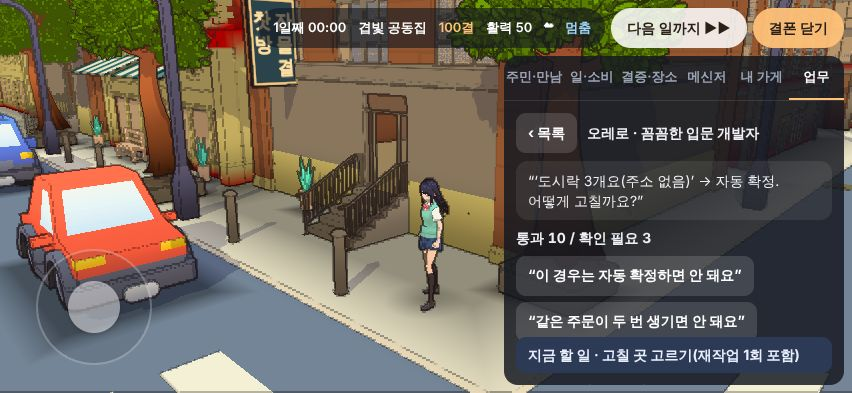
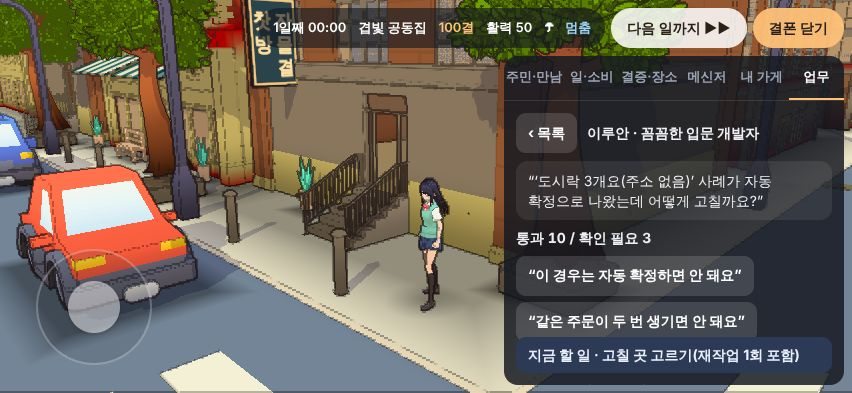
C104 C103 교차 리뷰 반영: 재합의·가용 시간·버전별 동의·되돌리기·중간 질문·한 문장
- awaitingFunding 계약은 취소(개발자 예약 해제) 또는 성공보수로 전환 가능(renegotiate)
- 개발은 예약 시각이면서 그 주민의 실제 가용 분(일정상 집·공원, 내 가게 근무 아님)에만;
  개발자 후보는 예약 시각이 일주일 내내 가용인 주민 중에서 고른다
- 데이터 동의를 계약 버전으로 저장(consent), 개발자·범위 변경 시 무효화, 서명 때 양측 그 버전
- 서명 전 '이전 선택으로'(범위 → 개발자), 범위 후보는 하나씩 비교(버튼 3개 이하)
- 50% 중간 질문은 시험물이 나온 뒤에도 답할 수 있다
- 대사는 한 문장으로; 각 항목 테스트 추가

Claude-Session: https://claude.ai/code/session_01BBKTde2wh3oFb8nsA6pmJK

Changed region(s): [[0.6103, 0.4275, 0.9155, 0.5496], [0.6714, 0.3053, 0.7629, 0.3664]]

diff --git a/src/game/tycoon/aiContracts.ts b/src/game/tycoon/aiContracts.ts
@@ -7,7 +7,7 @@ import type { Leg } from '../../sim/tycoonCore';
 import type { OpportunityState } from './opportunity';
 import type { TycoonCtx, TycoonSystem } from './system';
 
-export type AiStage = 'scoping' | 'awaitingFunding' | 'building' | 'testing' | 'reworking' | 'awaitingPayment' | 'delivered' | 'failed';
+export type AiStage = 'scoping' | 'awaitingFunding' | 'building' | 'testing' | 'reworking' | 'awaitingPayment' | 'delivered' | 'failed' | 'cancelled';
 /** 납품 뒤 하루 실제 주문 묶음의 처리 기록(자동 건수·사람 확인 분). */
 export interface AiRun { day: number; auto: number; check: number; minutes: number }
 /** reuse: '다른 고객 재사용' 제안에 대한 고객 답(null 제안 없음). asked: 50% 중간 확인 0 전·1 질문 중·2 답함. */
@@ -16,10 +16,12 @@ export interface AiContract {
   signed: boolean; stage: AiStage; version: number; reuse: boolean | null; work: number; left: number; asked: 0 | 1 | 2; defects: string[];
   /** C104. fixes: 재작업 지정 기능군. owed: 남은 환급 채무. next: 운영 기록에서 나온 다음 일감 범위. */
   reworked: boolean; fixes: string[]; owed: number; cause: string | null; runs: AiRun[]; next: ScopeId | null;
+  /** 데이터 조항에 동의한 계약 버전(고객·개발자). 개발자·범위가 바뀌면 무효. */
+  consent: { client: number | null; dev: number | null };
 }
 /** devs: 개발자 후보 → 주민 ID(그 사람의 지갑으로 지급). */
 export interface AiState { devs: Record<DevId, string>; contracts: AiContract[] }
-const stages: AiStage[] = ['scoping', 'awaitingFunding', 'building', 'testing', 'reworking', 'awaitingPayment', 'delivered', 'failed'];
+const stages: AiStage[] = ['scoping', 'awaitingFunding', 'building', 'testing', 'reworking', 'awaitingPayment', 'delivered', 'failed', 'cancelled'];
 
 const get = (s: AiState, id: string) => { const c = s.contracts.find(c => c.id === id); if (!c) throw Error('Contract unavailable'); return c; };
 const unsigned = (s: AiState, id: string) => { const c = get(s, id); if (c.signed) throw Error('Contract signed'); return c; };
@@ -48,30 +50,54 @@ export function start(ctx: TycoonCtx, s: AiState, oppId: string) {
 }
 const open = (ctx: TycoonCtx, s: AiState, oppId: string, clientId: string) => {
   const c: AiContract = { id: ctx.nextId('aiContract'), oppId, clientId, dev: null, scope: null, pay: null, signed: false, stage: 'scoping',
-    version: 1, reuse: null, work: 0, left: 0, asked: 0, defects: [], reworked: false, fixes: [], owed: 0, cause: null, runs: [], next: null };
+    version: 1, reuse: null, work: 0, left: 0, asked: 0, defects: [], reworked: false, fixes: [], owed: 0, cause: null, runs: [], next: null,
+    consent: { client: null, dev: null } };
   s.contracts.push(c); return c;
+};
+/** 개발자·범위가 바뀌면 새 버전: 이전 데이터 동의(재사용 답 포함)는 무효. 같은 답은 같은 굴림이라 다시 물어도 같다. */
+const amend = (c: AiContract, change: Partial<AiContract>) => {
+  if (Object.entries(change).some(([k, v]) => c[k as keyof AiContract] !== v && c[k as keyof AiContract] !== null))
+    Object.assign(c, { version: c.version + 1, reuse: null, consent: { client: null, dev: null } });
+  Object.assign(c, change); return c;
 };
 export function pickDev(_ctx: TycoonCtx, s: AiState, id: string, dev: DevId) {
   const c = unsigned(s, id);
   if (busy(s, dev, id)) throw Error('Developer busy');
-  if (c.scope && !developers[dev].work[c.scope]) c.scope = null;
-  c.dev = dev; return c;
+  return amend(c, c.scope && !developers[dev].work[c.scope] ? { dev, scope: null } : { dev });
 }
 export function pickScope(_ctx: TycoonCtx, s: AiState, id: string, scope: ScopeId) {
   const c = unsigned(s, id);
   if (!c.dev || !developers[c.dev].work[scope]) throw Error(c.dev ? developers[c.dev].refuse : 'No developer');
-  c.scope = scope; return c;
+  return amend(c, { scope });
+}
+/** 서명 전 '이전 선택으로': 범위, 그다음 개발자를 되돌린다. */
+export function back(_ctx: TycoonCtx, s: AiState, id: string) {
+  const c = unsigned(s, id);
+  return amend(c, c.scope ? { scope: null } : { dev: null });
 }
 /** 개발자의 '다른 고객 재사용' 제안을 고객에게 묻는다. 답은 계약·버전에 묶인 굴림(재질문 재굴림 없음). 조항이 바뀌면 버전이 오른다. */
 export function askReuse(ctx: TycoonCtx, s: AiState, id: string) {
   const c = unsigned(s, id);
-  if (c.reuse === null) { c.reuse = ctx.roll('aiContract', `${c.id}:reuse`, 0) < 0.5; c.version++; }
+  if (c.reuse === null) {
+    c.reuse = ctx.roll('aiContract', `${c.id}:reuse`, 0) < 0.5; c.version++;
+    c.consent = { client: c.reuse ? c.version : null, dev: c.version }; // 재사용 조항은 고객 동의가 있는 버전에만
+  }
   return c.reuse;
 }
+/** 서명 = 양측이 지금 버전의 조항(데이터 포함)에 동의. 재사용 조항은 고객이 이 버전에 동의했어야 한다. */
 export function sign(_ctx: TycoonCtx, s: AiState, id: string, pay: 'advance' | 'successOnly') {
   const c = unsigned(s, id);
-  if (!c.dev || !c.scope || busy(s, c.dev, id) || (pay === 'successOnly' && !canSuccessOnly(c))) throw Error('Cannot sign');
-  Object.assign(c, { pay, signed: true }); return c;
+  if (!c.dev || !c.scope || busy(s, c.dev, id) || (pay === 'successOnly' && !canSuccessOnly(c)) ||
+    (c.reuse && c.consent.client !== c.version)) throw Error('Cannot sign');
+  Object.assign(c, { pay, signed: true, consent: { client: c.version, dev: c.version } }); return c;
+}
+/** 미착수 재합의: 취소(개발자 예약 해제) 또는 성공보수로 바꿔 다시 착수 대기. 돈은 오가지 않았다. */
+export function renegotiate(_ctx: TycoonCtx, s: AiState, id: string, to: 'cancel' | 'successOnly') {
+  const c = get(s, id);
+  if (!c.signed || (c.stage !== 'scoping' && c.stage !== 'awaitingFunding') || (to === 'successOnly' && !canSuccessOnly(c))) throw Error('Cannot renegotiate');
+  if (to === 'cancel') c.stage = 'cancelled'; else Object.assign(c, { pay: 'successOnly', stage: 'scoping', version: c.version + 1,
+    consent: { client: c.version + 1, dev: c.version + 1 } });
+  return c;
 }
 /** 착수: 선금·착수비 settle 묶음(하나라도 안 되면 둘 다 없음 → awaitingFunding). 결함은 기능군마다 여기서 한 번 정한다. */
 export function begin(ctx: TycoonCtx, s: AiState, id: string) {
@@ -86,7 +112,7 @@ export function begin(ctx: TycoonCtx, s: AiState, id: string) {
 export function confirmMid(_ctx: TycoonCtx, s: AiState, id: string) { const c = get(s, id); if (c.asked === 1) c.asked = 2; return c; }
 
 /** 검수 결과: 결과물(범위·남은 결함·동의)이 같으면 같다. */
-export const results = (c: AiContract) => acceptance(c.scope!, c.defects, c.reuse === true);
+export const results = (c: AiContract) => acceptance(c.scope!, c.defects, c.reuse === true && c.consent.client !== null);
 export const refund = (s: AiState, c: AiContract) => c.pay === 'advance' ? legs(s, c, 'start')[0].amount - legs(s, c, 'start')[1].amount : 0;
 /** 잔금 묶음(고객→나, 나→개발자). 같은 묶음 ID라 반복·압축 뒤 재호출에도 한 번만 지급된다. 실패는 검수 결과를 바꾸지 않는다. */
 function collect(ctx: TycoonCtx, s: AiState, c: AiContract) {
@@ -133,11 +159,26 @@ function operate(ctx: TycoonCtx, c: AiContract, day: number) {
   if (up && !c.next && batch.filter(x => preview(c.scope!, [x]).check && !preview(up, [x]).check).length >= 2) c.next = up;
 }
 
+const homes = ['nest', 'quiet', 'high', 'park'];
+/** 그 주민의 실제 가용 분: 일정상 집(또는 공원 산책)에 있고 내 가게 근무 시간이 아닐 때(기존 근무·다른 약속과 겹치지 않음). */
+export function free(ctx: TycoonCtx, npcId: string, minute: number) {
+  const n = ctx.residents.find(r => r.id === npcId), m = minute % 1440;
+  const slot = n?.schedule[Math.floor(minute / 1440) % 7].filter(x => x.fromMinute <= m).at(-1);
+  return !!slot && homes.includes(slot.placeId) && !ctx.book.employment.some(e => e.actorId === npcId && e.leftAt === null &&
+    e.job.employerId === 'player' && m >= e.job.fromMinute && m < e.job.toMinute);
+}
+/** 예약 근무 시각이 일주일 내내 그 주민의 가용 시간 안인가(개발자 후보 조건). */
+const fits = (ctx: TycoonCtx, npcId: string, [from, to]: [number, number]) =>
+  Array.from({ length: 7 * (to - from) * 60 }, (_, i) => Math.floor(i / ((to - from) * 60)) * 1440 + from * 60 + i % ((to - from) * 60))
+    .every(m => free(ctx, npcId, m));
+
 export const aiContract: TycoonSystem<AiState> = {
   id: 'aiContract',
   create(ctx) {
-    const [novice, senior] = ctx.residents.filter(n => Object.hasOwn(ctx.world.ledger.balances, n.id) && !orderClients.jobs.includes(n.job))
+    const order = ctx.residents.filter(n => Object.hasOwn(ctx.world.ledger.balances, n.id) && !orderClients.jobs.includes(n.job))
       .map(n => [ctx.roll('aiContract', n.id, 0), n.id] as const).sort((a, b) => a[0] - b[0]).map(([, id]) => id);
+    const novice = order.find(id => fits(ctx, id, developers.novice.hours)) ?? order[0];
+    const senior = order.find(id => id !== novice && fits(ctx, id, developers.senior.hours)) ?? order[1];
     return { devs: { novice, senior }, contracts: [] };
   },
   validate(raw) {
@@ -145,15 +186,16 @@ export const aiContract: TycoonSystem<AiState> = {
     if (typeof s?.devs?.novice !== 'string' || typeof s.devs.senior !== 'string' || !Array.isArray(s.contracts) || !s.contracts.every(c =>
       typeof c?.id === 'string' && stages.includes(c.stage) && int(c.left) && int(c.work) && int(c.version) && Array.isArray(c.defects) &&
       (c.dev === null || c.dev in developers) && (c.scope === null || c.scope in scopes))) throw Error('Invalid aiContract');
-    for (const c of s.contracts) c.runs ??= [], c.fixes ??= [], Object.assign(c, { reworked: !!c.reworked, owed: c.owed ?? 0, cause: c.cause ?? null, next: c.next ?? null }); // C103 저장
+    for (const c of s.contracts) c.runs ??= [], c.fixes ??= [], Object.assign(c, { reworked: !!c.reworked, owed: c.owed ?? 0, cause: c.cause ?? null,
+      next: c.next ?? null, consent: c.consent ?? (c.signed ? { client: c.reuse ? c.version : null, dev: c.version } : { client: null, dev: null }) }); // C103 저장
     if (!s.contracts.every(c => Number.isSafeInteger(c.owed) && c.owed >= 0)) throw Error('Invalid aiContract');
     return s;
   },
-  onMinute(_ctx, s, minute) {
+  onMinute(ctx, s, minute) {
     const hour = Math.floor(minute % 1440 / 60);
     for (const c of s.contracts) {
       const [from, to] = developers[c.dev!]?.hours ?? [0, 0];
-      if ((c.stage !== 'building' && c.stage !== 'reworking') || hour < from || hour >= to) continue; // 예약 근무 분에만 진행
+      if ((c.stage !== 'building' && c.stage !== 'reworking') || hour < from || hour >= to || !free(ctx, s.devs[c.dev!], minute)) continue; // 예약 근무 분이면서 실제 가용 분에만
       if (--c.left * 2 <= c.work && !c.asked) c.asked = 1;
       if (!c.left && c.stage === 'reworking') c.defects = c.defects.filter(f => !c.fixes.includes(f)); // 지정한 결함만
       if (!c.left) c.stage = 'testing';

diff --git a/src/ui/work.ts b/src/ui/work.ts
@@ -3,7 +3,7 @@ import type { createSession } from '../game/session';
 import type { Npc } from '../data/npcs';
 import { cases, closing, developers, failLine, fixLines, nextLines, scopes, advanceRate, type DevId, type ScopeId } from '../data/aiContracts';
 import { classify, preview } from '../sim/aiAutomation';
-import { askReuse, begin, busy, canSuccessOnly, confirmMid, fee, followUp, inspect, pickDev, pickScope, refund, results, retryPayment, rework, sign, start,
+import { askReuse, back, begin, busy, canSuccessOnly, confirmMid, fee, followUp, inspect, pickDev, pickScope, refund, renegotiate, results, retryPayment, rework, sign, start,
   type AiState } from '../game/tycoon/aiContracts';
 import { answer, askQuestion, askWorry, defOf, inquire, recordCount, review, shown, type OpportunityState } from '../game/tycoon/opportunity';
 
@@ -57,7 +57,7 @@ export function workTab(session: Session, h: { body: HTMLElement; residents: rea
     line.classList.add('tap');
     line.onclick = () => h.act(() => { run(session, (c, st) => review(c, st, x.id)); h.select(x.id); });
   }
-  const label = { building: '개발 중', testing: '시험물 나옴', reworking: '고치는 중', awaitingPayment: '잔금 기다림', delivered: '납품 완료', failed: '종료' };
+  const label = { building: '개발 중', testing: '시험물 나옴', reworking: '고치는 중', awaitingPayment: '잔금 기다림', delivered: '납품 완료', failed: '종료', cancelled: '취소됨' };
   for (const x of [...s.opps.filter(x => x.status === 'accepted').slice(-2), ...(ai(session)?.contracts.filter(c => c.oppId.endsWith('>next')).slice(-1) ?? [])]) {
     const c = ai(session)?.contracts.find(c => c.oppId === x.id || c === x), npc = 'npcId' in x ? x.npcId : x.clientId;
     const line = h.row(`${who(npc)?.name ?? npc} · ${'npcId' in x ? defOf(x).title : '다음 일감'}`,
@@ -122,15 +122,19 @@ function aiView(session: Session, h: Hud, selected: string) {
     h.note(`근무 ${x.hours[0]}~${x.hours[1]}시 · 맡는 범위 ${Object.keys(x.work).map(k => scopes[k as ScopeId].name).join('·')}`);
     now = '함께할 개발자 고르기';
   } else if (!c.scope) {
-    person(s.devs[c.dev!], dev.label, '어디까지 자동으로 맡길까요? 주소 없는 주문은 늘 사장님 확인이에요.');
-    const ids = Object.keys(dev.work) as ScopeId[];
-    for (const k of ids) { const p = preview(k); h.button(chips, `${scopes[k].name} · 자동 ${p.auto}건 / 사람 확인 ${p.check}건`, () => { run((cx, st) => pickScope(cx, st, id, k)); }); }
+    // 범위 후보는 하나씩 비교(버튼 3개 이하): 이걸로 / 다른 범위 보기, 되돌리기는 머리줄에.
+    const ids = Object.keys(dev.work) as ScopeId[], k = ids.includes(peek as ScopeId) ? peek as ScopeId : ids[0], p = preview(k);
+    person(s.devs[c.dev!], dev.label, `${scopes[k].name}${k === 'list' ? '' : '까지'}면 자동 ${p.auto}건, 사람 확인 ${p.check}건이고 주소 없는 주문은 늘 사장님 확인이에요.`);
+    h.button(chips, `이걸로 할게요 · ${scopes[k].price}결`, () => { run((cx, st) => pickScope(cx, st, id, k)); });
+    h.button(chips, '다른 범위 보기', () => h.select(`ai|${id}|${ids[(ids.indexOf(k) + 1) % ids.length]}`));
+    h.button(head, '이전 선택으로', () => { run((cx, st) => back(cx, st, id)); });
     const box = h.make('hud-note', h.body, 'details');
     h.make('', box, 'summary', `대표 ${cases.length}건 미리보기 (${ids.map(k => scopes[k].name).join(' / ')})`);
     for (const x of cases) h.make('', box, 'div', `${x.text} → ${ids.map(k => classify(k, x) === 'auto' ? '자동' : '확인').join(' / ')}`);
     now = '처리 범위 고르기';
   } else if (!c.signed) {
-    person(c.clientId, '고객', `${scopes[c.scope].name} ${price}결로 해요. 선금 ${Math.round(price * advanceRate)}결은 착수 때 드릴게요.`);
+    person(c.clientId, '고객', `${scopes[c.scope].name} ${price}결로 하고 선금 ${Math.round(price * advanceRate)}결은 착수 때 드릴게요.`);
+    h.button(head, '이전 선택으로', () => { run((cx, st) => back(cx, st, id)); });
     h.button(chips, '선금 계약 서명', () => { run((cx, st) => sign(cx, st, id, 'advance')); });
     if (canSuccessOnly(c)) h.button(chips, '성공보수로 (첫 실적 공동 제작)', () => { run((cx, st) => sign(cx, st, id, 'successOnly')); });
     const box = h.make('hud-note', h.body, 'details');
@@ -139,20 +143,22 @@ function aiView(session: Session, h: Hud, selected: string) {
     if (c.reuse === null) h.button(box, '다른 고객 재사용도 물어보기', () => run((cx, st) => askReuse(cx, st, id)) ? '고객: “그 정도는 괜찮아요.”' : '고객: “우리 주문은 우리 일에만 써 주세요.”');
     now = '계약 서명';
   } else if (c.stage === 'scoping' || c.stage === 'awaitingFunding') {
-    person(s.devs[c.dev!], dev.label, c.stage === 'awaitingFunding' ? '선금이 아직 오가지 못했어요. 준비되면 다시 시작해요.'
-      : c.pay === 'successOnly' ? '지급 없이 일정만 잡을게요. 시작할까요?' : `착수하면 선금이 들어오고 제 착수비 ${Math.floor(fee(c) / 2)}결이 나가요.`);
+    person(s.devs[c.dev!], dev.label, c.stage === 'awaitingFunding' ? '선금이 아직 오가지 못해서 준비되면 다시 시작해요.'
+      : c.pay === 'successOnly' ? '지급 없이 일정만 잡고 시작할까요?' : `착수하면 선금이 들어오고 제 착수비 ${Math.floor(fee(c) / 2)}결이 나가요.`);
     h.button(chips, '착수', () => run((cx, st) => begin(cx, st, id)) ? '개발이 시작됐어요' : '선금을 주고받지 못했어요');
+    if (c.stage === 'awaitingFunding' && c.pay === 'advance' && canSuccessOnly(c)) h.button(chips, '성공보수로 바꾸기', () => { run((cx, st) => renegotiate(cx, st, id, 'successOnly')); });
+    if (c.stage === 'awaitingFunding') h.button(chips, '계약 취소', () => { run((cx, st) => renegotiate(cx, st, id, 'cancel')); return '개발자 예약이 풀렸어요'; });
     now = '착수';
-  } else if (c.stage === 'building' && c.asked === 1) {
-    person(s.devs[c.dev!], dev.label, `반쯤 했어요. “${cases.find(x => x.kind === 'missing')!.text}” 이 주문은 사람이 확인하는 게 맞죠?`);
+  } else if (c.asked === 1 && (c.stage === 'building' || c.stage === 'testing')) { // 다 만든 뒤에도 답할 수 있다
+    person(s.devs[c.dev!], dev.label, `${c.stage === 'building' ? '반쯤 했는데' : '다 만들었는데'} ‘${cases.find(x => x.kind === 'missing')!.text}’ 이 주문은 사람이 확인하는 게 맞죠?`);
     h.button(chips, '네, 사람이 확인해요', () => { run((cx, st) => confirmMid(cx, st, id)); });
     now = '중간 확인 답하기';
   } else if (c.stage === 'testing') {
     // 검수: 결과는 '통과 n / 확인 필요 n' 한 줄, 실패 사례는 펼쳐서(입력·기대·실제·사람 확인 여부).
     const all = results(c), fails = all.filter(r => !r.ok), f = fails[0];
-    if (!f) person(c.clientId, '고객', '약속한 대로 나왔네요. 주소 없는 주문도 확인 목록에 남았어요.');
+    if (!f) person(c.clientId, '고객', '주소 없는 주문까지 약속한 대로 확인 목록에 남았네요.');
     else if (c.reworked) person(c.clientId, '고객', failLine);
-    else person(s.devs[c.dev!], dev.label, `‘${f.text}’ → ${f.actual}. 어떻게 고칠까요?`);
+    else person(s.devs[c.dev!], dev.label, `‘${f.text}’ 사례가 ${f.actual}으로 나왔는데 어떻게 고칠까요?`);
     if (!f) h.button(chips, '통과 · 잔금 청구', () => { run((cx, st) => inspect(cx, st, id)); });
     else if (c.reworked) h.button(chips, '여기서 끝내기 · 환급', () => { run((cx, st) => inspect(cx, st, id)); });
     else {
@@ -168,7 +174,7 @@ function aiView(session: Session, h: Hud, selected: string) {
     }
     now = !f ? '검수 통과시키기' : c.reworked ? '계약 끝내기' : '고칠 곳 고르기(재작업 1회 포함)';
   } else if (c.stage === 'awaitingPayment') {
-    person(c.clientId, '고객', '검수는 통과예요. 잔금은 돈이 들어오면 바로 드릴게요.');
+    person(c.clientId, '고객', '검수는 통과라서 잔금은 돈이 들어오면 바로 드릴게요.');
     h.button(chips, '다시 청구하기', () => run((cx, st) => retryPayment(cx, st, id)) ? '잔금이 들어왔어요' : '아직 잔금이 없대요. 내일 다시 받아요');
     h.note(`잔금 ${legsNote(c)} · 받기 전에는 사용권이 열리지 않아요`);
     now = '잔금 기다리기';
@@ -180,8 +186,11 @@ function aiView(session: Session, h: Hud, selected: string) {
       : `환급 ${refund(s, c) - c.owed}결${c.owed ? ` · 남은 채무 ${c.owed}결` : ''} · 개발자 착수비는 한 일 값으로 남아요`);
     if (ok) h.note(r ? `어제 실제 주문 · 자동 ${r.auto}건 / 사람 확인 ${r.check}건(${r.minutes}분)` : '내일부터 실제 주문 처리 기록이 쌓여요');
     now = ok ? (c.next ? '다음 일감 듣기' : '납품 완료') : `종료 · ${c.cause}`;
+  } else if (c.stage === 'cancelled') {
+    person(c.clientId, '고객', '이번엔 없던 일로 하고 다음에 또 얘기해요.');
+    now = '계약 취소됨';
   } else {
-    person(s.devs[c.dev!], dev.label, `${c.stage === 'reworking' ? '고치는 중이에요. ' : ''}${Math.floor((c.work - c.left) * 100 / c.work)}% 했어요. ${dev.hours[0]}~${dev.hours[1]}시에만 작업해요.`);
+    person(s.devs[c.dev!], dev.label, `${c.stage === 'reworking' ? '고치는 중이고 ' : ''}${dev.hours[0]}~${dev.hours[1]}시 쉬는 때에만 작업해서 ${Math.floor((c.work - c.left) * 100 / c.work)}% 했어요.`);
     now = '다음 일까지 넘기며 기다리기';
   }
   h.make('hud-now', h.body, 'div', `지금 할 일 · ${now}`);

diff --git a/tests/sim/aiContracts.test.ts b/tests/sim/aiContracts.test.ts
@@ -1,9 +1,10 @@
 import { expect, it } from 'vitest';
 import { createSession } from '../../src/game/session';
-import { cases, scopes } from '../../src/data/aiContracts';
+import { cases, closing, developers, failLine, nextLines, scopes } from '../../src/data/aiContracts';
 import { classify, devInput, preview } from '../../src/sim/aiAutomation';
 import { answer, askQuestion, inquire, type OpportunityState } from '../../src/game/tycoon/opportunity';
-import { askReuse, begin, followUp, inspect, legs, pickDev, pickScope, results, retryPayment, rework, sign, start, type AiState } from '../../src/game/tycoon/aiContracts';
+import { askReuse, back, begin, confirmMid, followUp, free, inspect, legs, pickDev, pickScope, renegotiate, results, retryPayment, rework, sign, start,
+  type AiState } from '../../src/game/tycoon/aiContracts';
 import { compactLedger } from '../../src/sim/ledger';
 
 function setup(data = new Map<string, string>()) {
@@ -197,4 +198,59 @@ it('C104 A8: delivery records real runs; a follow-up needs those records and is 
   expect(a.run((cx, s) => followUp(cx, s, a.id)).id).toBe(next.id);
   const restored = setup(a.data);
   expect(restored.ai()).toEqual(a.ai());
+});
+
+it('C104 review 1: an unfunded contract can be cancelled or switched to success-only; the developer is released', () => {
+  const f = setup(), c = f.deal('novice', 'list', 'advance');
+  f.bal[c.clientId] = 0; f.run((cx, s) => begin(cx, s, c.id));
+  expect(f.ai().contracts[0].stage).toBe('awaitingFunding');
+  f.run((cx, s) => renegotiate(cx, s, c.id, 'successOnly'));
+  expect(f.ai().contracts[0]).toMatchObject({ pay: 'successOnly', stage: 'scoping' });
+  expect(f.run((cx, s) => begin(cx, s, c.id))).toBe(true);
+  const g = setup(), d = g.deal('senior', 'normal', 'advance');
+  g.bal[d.clientId] = 0; g.run((cx, s) => begin(cx, s, d.id));
+  expect(() => g.run((cx, s) => renegotiate(cx, s, d.id, 'successOnly'))).toThrow();
+  g.run((cx, s) => renegotiate(cx, s, d.id, 'cancel'));
+  expect(g.ai().contracts[0].stage).toBe('cancelled');
+  const other = g.contract();
+  expect(() => g.run((cx, s) => pickDev(cx, s, other.id, 'senior'))).not.toThrow();
+});
+
+it('C104 review 2: developers work only in their own free minutes (home, not on shift), every booked minute', () => {
+  const f = setup(), ctx = f.session.tycoon.ctx();
+  for (const d of ['novice', 'senior'] as const) {
+    const [from, to] = developers[d].hours;
+    for (let day = 0; day < 7; day++) for (let m = from * 60; m < to * 60; m += 15) expect(free(ctx, f.ai().devs[d], day * 1440 + m)).toBe(true);
+  }
+  const busyId = ctx.residents.find(n => !free(ctx, n.id, 13 * 60) && n.schedule.every(s => s[1]?.fromMinute <= 13 * 60))!;
+  expect(busyId).toBeDefined(); // 출근 중인 주민은 가용 시간이 아니다
+});
+
+it('C104 review 3: data consent is stored per version; changing developer or scope voids it; signing records both at that version', () => {
+  const f = setup(), c = f.contract();
+  f.run((cx, s) => pickDev(cx, s, c.id, 'senior')); f.run((cx, s) => pickScope(cx, s, c.id, 'normal'));
+  const yes = f.run((cx, s) => askReuse(cx, s, c.id)), v = f.ai().contracts[0].version;
+  expect(f.ai().contracts[0].consent).toEqual({ client: yes ? v : null, dev: v });
+  f.run((cx, s) => pickScope(cx, s, c.id, 'extended'));
+  expect(f.ai().contracts[0]).toMatchObject({ version: v + 1, reuse: null, consent: { client: null, dev: null } });
+  expect(f.run((cx, s) => askReuse(cx, s, c.id))).toBe(yes); // 다시 물어도 같은 답
+  f.run((cx, s) => sign(cx, s, c.id, 'advance'));
+  expect(f.ai().contracts[0].consent).toEqual({ client: v + 2, dev: v + 2 });
+});
+
+it('C104 review 4·5: back undoes scope then developer before signing; the 50% question stays answerable after the build', () => {
+  const f = setup(), c = f.contract();
+  f.run((cx, s) => pickDev(cx, s, c.id, 'novice')); f.run((cx, s) => pickScope(cx, s, c.id, 'list'));
+  f.run((cx, s) => back(cx, s, c.id)); expect(f.ai().contracts[0]).toMatchObject({ dev: 'novice', scope: null });
+  f.run((cx, s) => back(cx, s, c.id)); expect(f.ai().contracts[0]).toMatchObject({ dev: null, scope: null });
+  f.run((cx, s) => pickDev(cx, s, c.id, 'novice')); f.run((cx, s) => pickScope(cx, s, c.id, 'list')); f.run((cx, s) => sign(cx, s, c.id, 'successOnly'));
+  expect(() => f.run((cx, s) => back(cx, s, c.id))).toThrow();
+  f.run((cx, s) => begin(cx, s, c.id)); f.advance(1440);
+  expect(f.ai().contracts[0]).toMatchObject({ stage: 'testing', asked: 1 });
+  f.run((cx, s) => confirmMid(cx, s, c.id)); expect(f.ai().contracts[0].asked).toBe(2);
+});
+
+it('C104 review 6: every scripted line is one sentence', () => {
+  for (const line of [...Object.values(developers).map(d => d.line), ...Object.values(closing), ...Object.values(nextLines), failLine])
+    expect(line.match(/[.?!](\s|$)/g)?.length ?? 0).toBeLessThanOrEqual(1);
 });

diff --git a/src/data/aiContracts.ts b/src/data/aiContracts.ts
@@ -34,9 +34,9 @@ export const advanceRate = 0.4;
 export type DevId = 'novice' | 'senior';
 export const developers: Record<DevId, { label: string; line: string; hours: [number, number]; defect: number; successFee: number | null;
   work: Partial<Record<ScopeId, [number, number]>>; refuse: string }> = {
-  novice: { label: '꼼꼼한 입문 개발자', line: '목록 정리는 자신 있어요. 첫 실적이면 성공보수로도 할게요.', hours: [9, 15], defect: 0.08, successFee: 120,
+  novice: { label: '꼼꼼한 입문 개발자', line: '목록 정리는 자신 있고 첫 실적이면 성공보수로도 할게요.', hours: [9, 15], defect: 0.08, successFee: 120,
     work: { list: [60, 80], normal: [90, 120] }, refuse: '원래 주문과 연결하는 부분은 아직 못 맡아요.' },
-  senior: { label: '업무 경험이 있는 개발자', line: '중복·변경 반영까지 해 봤어요. 오후에 시간이 나요.', hours: [13, 19], defect: 0.03, successFee: null,
+  senior: { label: '업무 경험이 있는 개발자', line: '중복·변경 반영까지 해 봤고 오후에 시간이 나요.', hours: [13, 19], defect: 0.03, successFee: null,
     work: { list: [45, 110], normal: [60, 150], extended: [90, 180] }, refuse: '' },
 };
 /** 데이터 조항 기본안: 개발자는 이 필드만 본다(주소·연락처는 고객 화면에 남는다). 재사용은 고객 동의가 있을 때만. */
@@ -53,8 +53,8 @@ export const reworkMinutes = 30;
 export const fixLines: Record<string, string> = { list: '목록에서 사라지면 안 돼요', normal: '이 경우는 자동 확정하면 안 돼요',
   duplicate: '같은 주문이 두 번 생기면 안 돼요', changed: '바뀐 주문은 원래 주문에 반영해야 해요' };
 /** 고객의 마지막 한마디: 납품(범위별)·다음 일감 후보·실패. */
-export const closing: Record<ScopeId, string> = { list: '목록에서 빠지는 일은 없어졌어요. 고마워요.',
-  normal: '정상 주문은 이제 손이 안 가요. 확인할 것만 따로 모여요.', extended: '중복이랑 변경까지 알아서 정리되네요. 숨 좀 돌려요.' };
-export const nextLines: Partial<Record<ScopeId, string>> = { normal: '정상 주문은 늘 똑같이 확인하네요. 다음엔 정상 주문까지 맡길까요?',
-  extended: '변경 주문 확인이 계속 쌓여요. 변경까지 맡길 수 있을까요?' };
-export const failLine = '고쳤는데도 그대로네요. 이번 일은 여기서 끝낼게요.';
+export const closing: Record<ScopeId, string> = { list: '목록에서 빠지는 일이 없어져서 고마워요.',
+  normal: '정상 주문은 이제 손이 안 가고 확인할 것만 따로 모여요.', extended: '중복이랑 변경까지 알아서 정리돼서 숨 좀 돌려요.' };
+export const nextLines: Partial<Record<ScopeId, string>> = { normal: '정상 주문은 늘 똑같이 확인하는데 다음엔 정상 주문까지 맡길까요?',
+  extended: '변경 주문 확인이 계속 쌓이는데 변경까지 맡길 수 있을까요?' };
+export const failLine = '고쳤는데도 그대로라 이번 일은 여기서 끝낼게요.';
